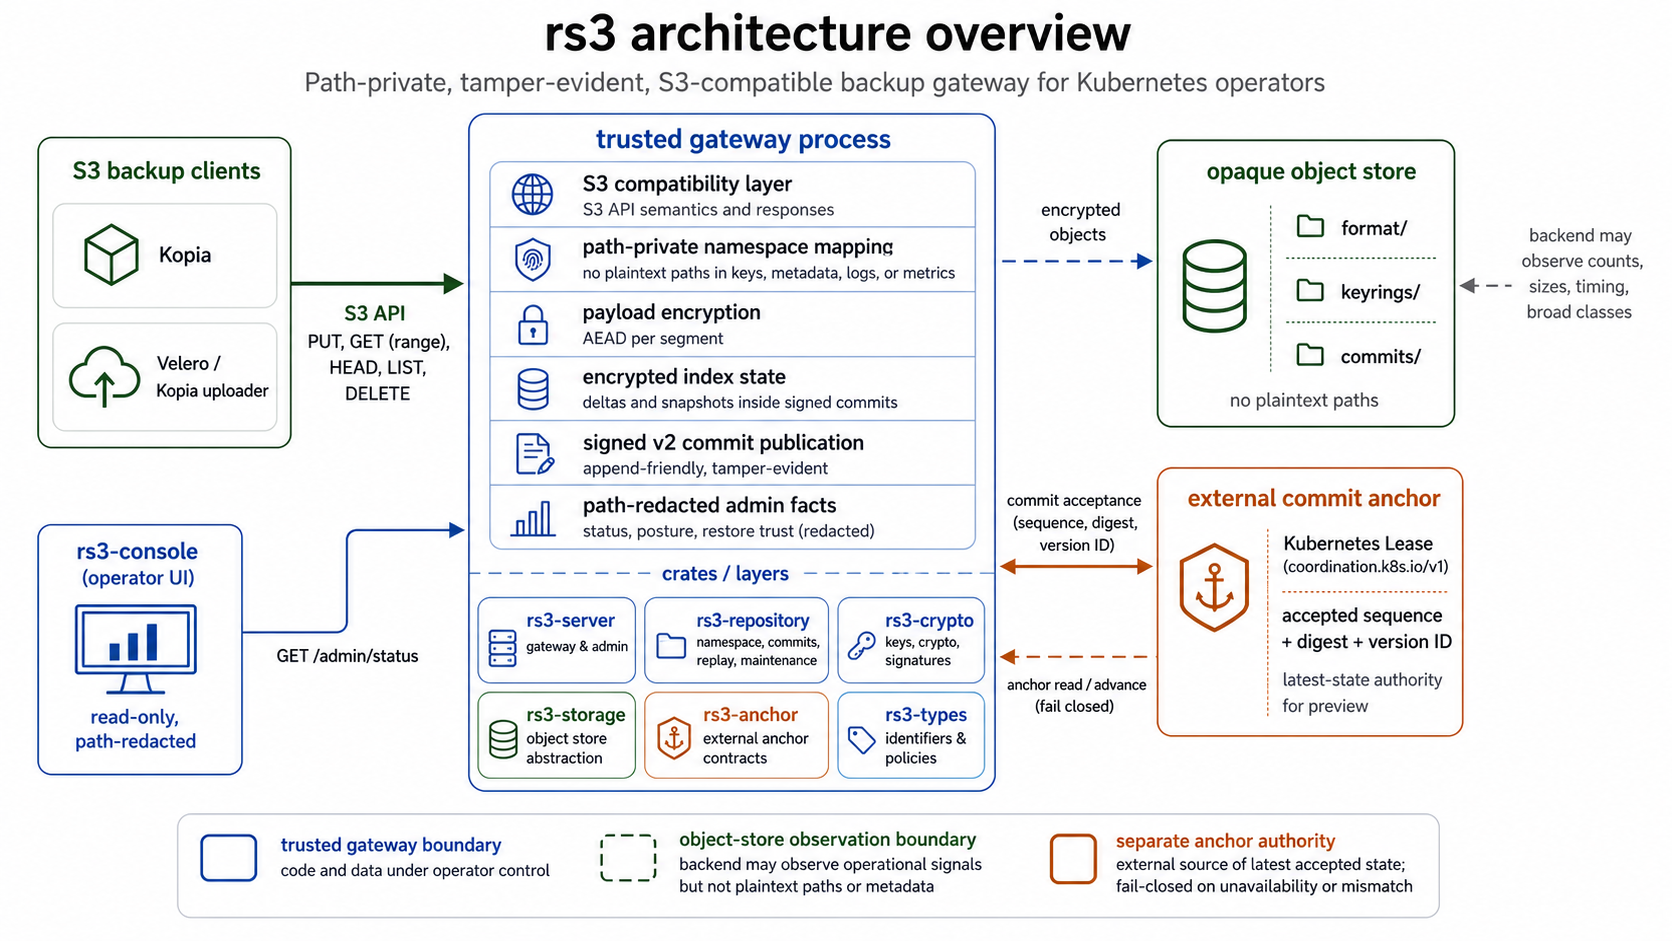
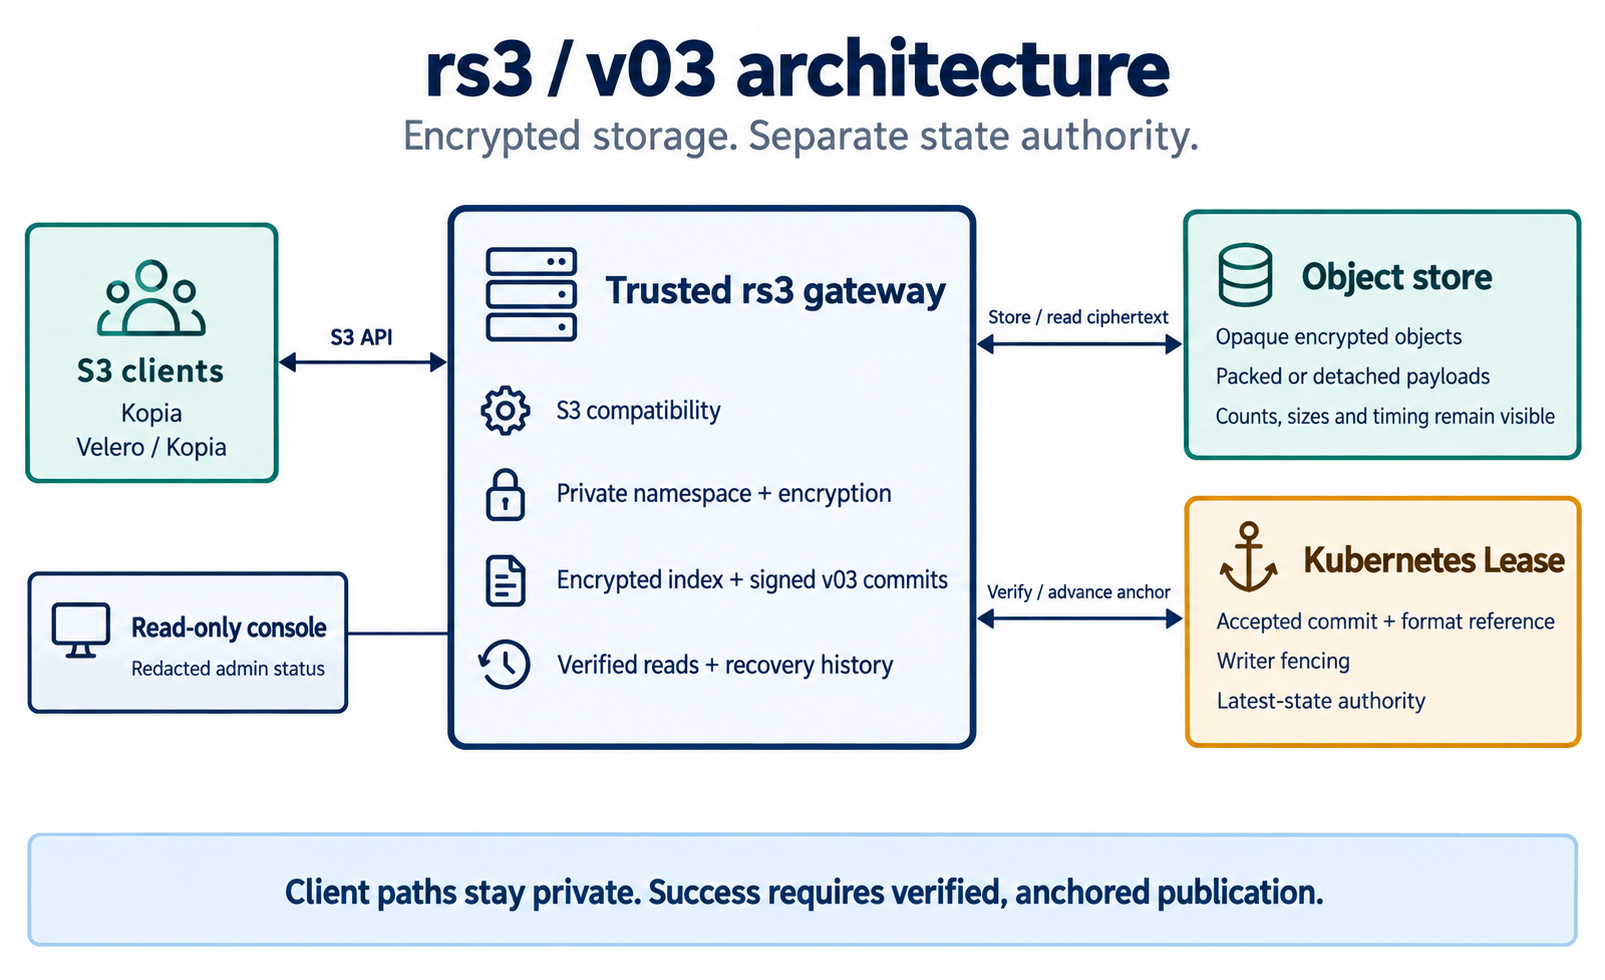
Refresh architecture diagrams for v03 publication and restore

diff --git a/docs/site/architecture.md b/docs/site/architecture.md
@@ -16,7 +16,7 @@ posture and status.
   <a class="rv-lightbox" href="../assets/architecture-overview.png" aria-label="Enlarge rs3 architecture overview diagram" aria-haspopup="dialog" data-rv-title="Architecture overview">
     <picture>
       <source srcset="../assets/architecture-overview.webp" type="image/webp">
-      <img class="rv-diagram" src="../assets/architecture-overview.png" width="1672" height="941" loading="lazy" decoding="async" alt="Architecture overview showing S3 backup clients, the trusted rs3 gateway process, an opaque object store, an external Kubernetes Lease anchor, and the read-only console path.">
+      <img class="rv-diagram" src="../assets/architecture-overview.png" width="1605" height="980" loading="lazy" decoding="async" alt="v03 architecture: S3 clients use the trusted rs3 gateway, which stores encrypted packed or detached payloads in the object store and verifies or advances a separate Kubernetes Lease anchor. An optional read-only console accesses redacted admin status.">
     </picture>
   </a>
 </figure>
@@ -218,9 +218,11 @@ to run past an uncertain maintenance failure. Already accepted reads remain
 available.
 
 The state-flow view below separates the normal write path from the restore read
-path. A normal write blinds the namespace lookup, encrypts payload segments,
-stages payload plus an index run, publishes a signed commit, advances the
-external anchor, and only then acknowledges the client write. A restore read
+path. Bounded nonempty writes pack encrypted values with an index run; large
+uploads store detached ciphertext referenced by a short index-run commit.
+Empty values are index-only. Publication verifies stored ciphertext, accepts
+the signed commit through the external anchor, and only then acknowledges the
+client write. A restore read
 starts from trusted anchor state, verifies the signed catalog and runs, finds
 the exact encrypted payload reference, range-reads the retained version when
 required, verifies AEAD segments, and returns restored bytes.
@@ -229,7 +231,7 @@ required, verifies AEAD segments, and returns restored bytes.
   <a class="rv-lightbox" href="../assets/architecture-state-flow.png" aria-label="Enlarge rs3 write and restore state flow diagram" aria-haspopup="dialog" data-rv-title="Write and restore flow">
     <picture>
       <source srcset="../assets/architecture-state-flow.webp" type="image/webp">
-      <img class="rv-diagram" src="../assets/architecture-state-flow.png" width="1692" height="930" loading="lazy" decoding="async" alt="Write and restore flow showing committed writes through signed v03 commits and anchored restore reads through verified commit state.">
+      <img class="rv-diagram" src="../assets/architecture-state-flow.png" width="1605" height="980" loading="lazy" decoding="async" alt="Writes use packed values or detached payloads, verify stored ciphertext and advance the Lease before returning success. Restores start from a trusted anchor or retained point, verify the catalog and runs, resolve exact payload references and authenticate segments. Unresolved publication outcomes block mutations.">
     </picture>
   </a>
 </figure>
@@ -303,9 +305,11 @@ owner. A commit coordinator holds an RAII lease that is also retained by every
 delayed publisher task; direct mutation and maintenance entry points fail while
 that lease exists. This prevents a cancelled request or a second local API path
 from publishing and clearing another batch's speculative overlay. All semantic
-installation checks occur before anchor CAS. A lost CAS reply is reconciled by
-reading the exact anchor. A matching accepted child completes normally; an
-unchanged parent permits failure rollback. If the outcome cannot be resolved,
+installation checks occur before anchor CAS. A lost CAS reply is settled by a
+resource-version-guarded fencing update on the Lease. Once that update succeeds,
+the earlier request cannot land afterward: a matching accepted child completes
+normally, while an unchanged parent permits failure rollback. If the fencing
+update fails or the outcome cannot be resolved,
 or local installation fails after acceptance, callers receive a recovery-required
 error and new mutations stop until restart from the trusted anchor.
 
